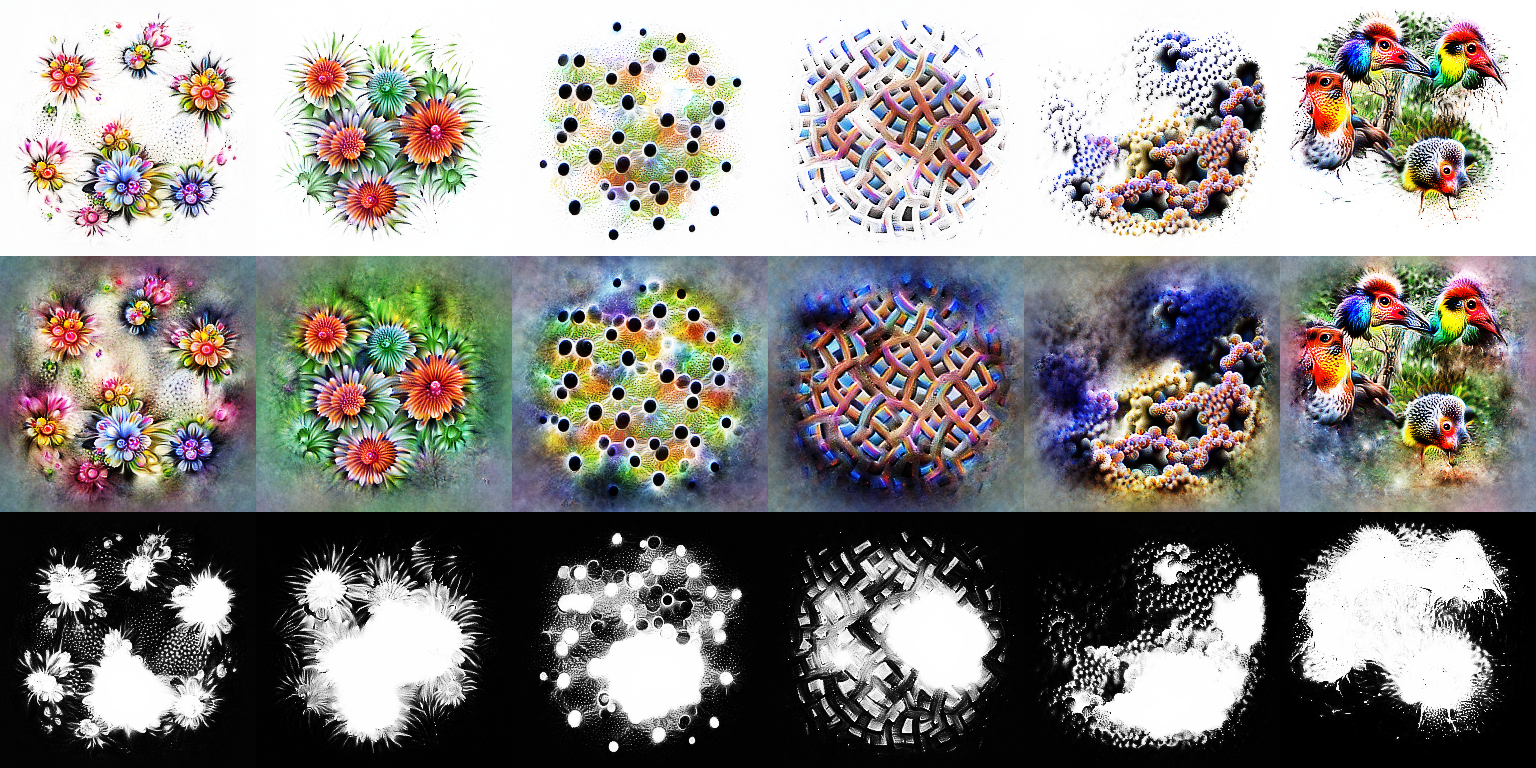
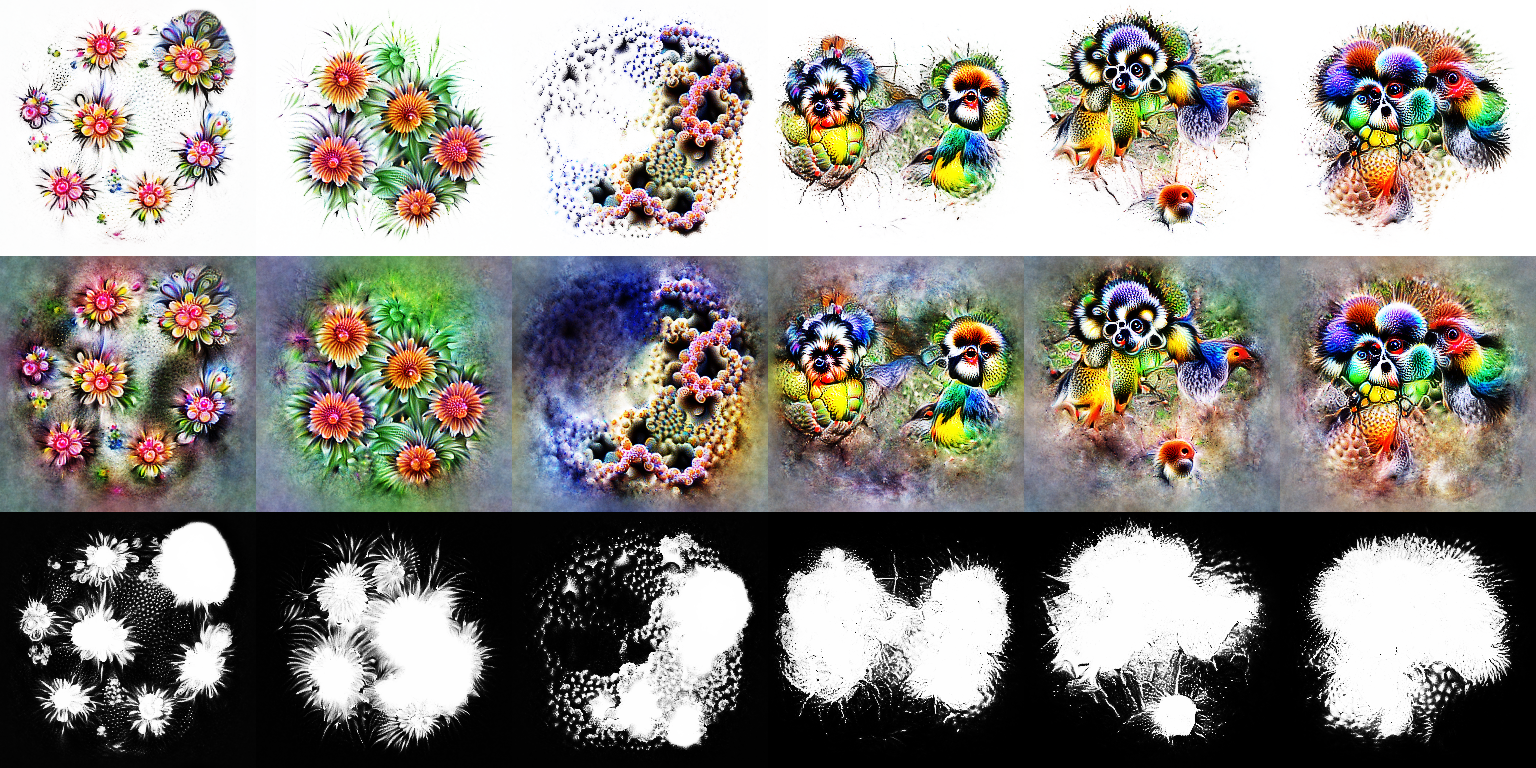
Background experiments for the alpha section
TOFIX: captions, size of the BG and random noise

diff --git a/src/components/ImageArrayBackground.html b/src/components/ImageArrayBackground.html
@@ -1,0 +1,132 @@
+
+<div class="icons">
+  {{#each icon_ns as n}}
+    <div class="icon {{(selected == n)? 'selected' : ''}}"
+         on:click='set({selected: n})'
+      >
+        <Sprite bind:src_class=icon_src_class 
+        size=44 
+        sprite_size={{icon_scale*sprite_size}} 
+        y={{(1-icon_scale)/2 + n/icon_scale}} 
+        x={{(1-icon_scale)/2 + icon_x/icon_scale}} 
+        hover_scale={{44/sprite_size/icon_scale}} />
+
+    </div>
+  {{/each}}
+</div>
+<div class="images">
+  {{#each image_ns as n}}
+  <div class="img-container">
+    <Sprite bind:src_class 
+    bind:size 
+    bind:sprite_size 
+    bind:y=selected 
+    x={{n}} 
+      hover={{false}}  />
+      <!--
+    <br style="clear:left">
+    <figcaption style="max-width: {{size}}px;" >{{{label_func(n, selected)}}}</figcaption>
+    -->
+  </div>
+  {{/each}}
+</div>
+
+
+<style>
+.img-container { 
+  background-image: url('images/checkerboard.png')
+}
+
+.icons {
+  display: inline-flex;
+  flex-wrap: wrap;
+  flex-direction: row;
+  margin-bottom: 8px;
+  border-bottom: 1px solid #dddddd;
+}
+
+.icons .icon {
+  cursor: pointer;
+  padding-bottom: 5px;
+  margin-bottom: -1px;
+  
+  margin-left: 3px;
+  margin-right: 3px;
+}
+
+.icons .icon:first-of-type {
+  margin-left: 0px;
+}
+
+.icons .icon:last-of-type {
+  margin-right: 0px;
+}
+
+.icons .icon.selected {
+  border-bottom: 3px solid #ff6600;
+}
+
+.icon div {
+  opacity: 0.666;
+  image-rendering: auto;
+}
+
+.icon:hover div {
+  opacity: 0.8;
+}
+
+.icon.selected div {
+  opacity: 1;
+}
+
+.images {
+  display: flex;
+  flex-wrap: wrap;
+  flex-direction: row;
+  /*justify-content: space-between;*/
+  top: 0px;
+}
+.images > div {
+  /*width: 180px;*/
+  margin-right: 5px;
+}
+.images > div:last-child {
+  margin-right: 0;
+}
+.images div img {
+  width: 100%;
+  height: 100%;
+}
+
+figcaption {
+  margin-top: 6px;
+  /*margin-bottom: 6px;*/
+}
+</style>
+
+<script>
+  import Sprite from "./Sprite.html";
+  import { range } from "../util.js";
+  
+  export default {
+    data() {
+      return {
+        n_icons: 4,
+        n_images: 6,
+        selected: 0,
+        sprite_size: 128,
+        size: 160,
+        src_class: "",
+        label_func: n => "Image " + n,
+        icon_src_class: "",
+        icon_scale: 0.5,
+        backwards: false
+      }
+    },
+    computed: {
+      icon_ns: (n_icons, backwards) => range(n_icons, backwards),
+      image_ns: n_images => range(n_images, false)
+    },
+    components: {Sprite}
+  }
+</script>

diff --git a/src/diagrams/SemiTransparentExamples.html b/src/diagrams/SemiTransparentExamples.html
@@ -26,13 +26,13 @@
   }
   
   .interpolation-sprite {
-    background-image: url("images/semi-transparent-examples.jpg");
+    background-image: url("images/semi-transparent-examples.png");
   }
   
-</style>
+</style> 
 
 <script>
-  import ImageArray from '../components/ImageArray';
+  import ImageArray from '../components/ImageArrayBackground';
   
   const imageArrayData = {
     src_class: "interpolation-sprite",
@@ -41,20 +41,20 @@
     label_func: (n, i) => {
       switch(n){
         case 0: return  "No Background";
-        case 1: return  "Random Noise";
-        case 2: return  "Water Lilies";
-        case 3: return  "Starry Night";
-        case 4: return  "Kandinsky";
-        case 5: return  "Pollock";
+        case 1: return  "Water Lilies";
+        case 2: return  "Starry Night";
+        case 3: return  "Kandinsky";
+        case 4: return  "Pollock";
+        case 5: return  "Random Noise";
       }
     },
     n_images: 6,
-    n_icons: 9,
-    sprite_size: 128, 
-    size: 112,
+    n_icons: 6,
+    sprite_size: 180, 
+    size: 140,
     icon_scale: 1,
     hover_scale: 1,
-    selected: 1,
+    selected: 5,
     backwards: false
   }
   

diff --git a/src/diagrams/SemiTransparentCombination.html b/src/diagrams/SemiTransparentCombination.html
@@ -31,10 +31,7 @@
   <div class="frow" style="">
     <div class="result c fcolumn">
       <div class="img-container">
-        <div class="top">
-          <Sprite src_class={{sprite_class}} size=180 sprite_size=256 y=0 x={{x}} sprite_scale=1/>
-        </div>
-        <img src="images/checkerboard.png">
+        <Sprite src_class={{sprite_class}} size=180 sprite_size=256 y=0 x={{x}} sprite_scale=1/>
       </div>
       <span class="figcaption">Combined image</span>
     </div>
@@ -140,15 +137,9 @@
   }
   
   .img-container { 
-    position: relative; 
+    background-image: url('images/checkerboard.png')
   }
   
-  .img-container .top {
-    position: absolute;
-    top: 0;
-    left: 0;
-    z-index: 1;
-  }
   
   @media (min-width: 1024px) {
     
